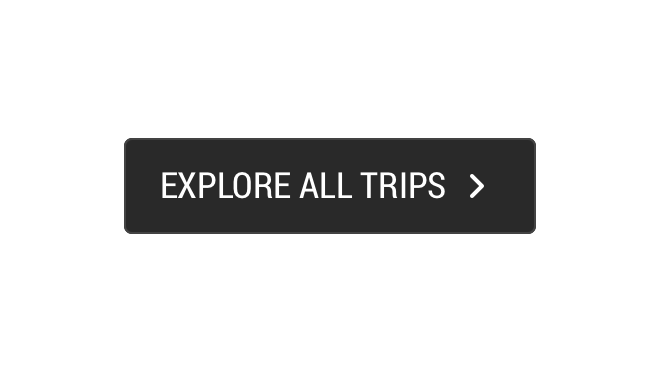
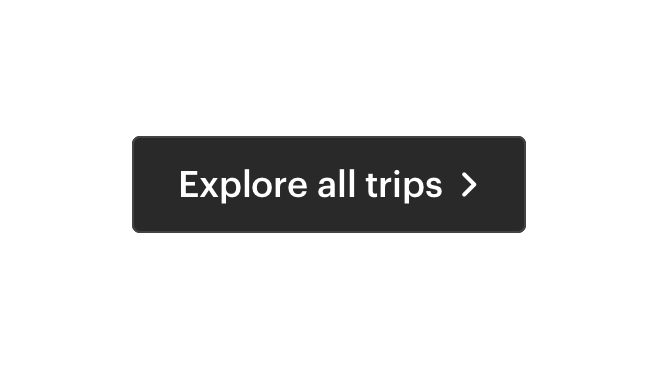
update cta images

Changed region(s): [[0.1824, 0.3568, 0.8207, 0.6541], [0.2432, 0.4459, 0.7295, 0.5649]]

diff --git a/docs/components/cta/README.md b/docs/components/cta/README.md
@@ -326,41 +326,21 @@ To construct consistent and universal Call to Actions across the site:
 
 <do-dont :examples="$page.frontmatter.placement" />
 
-// image changes
-do: https://drive.google.com/file/d/1R4kCcGUrmEJ8IWPOnAUOE1fcqaI0JCAK/view?usp=sharing
-don't: https://drive.google.com/file/d/150XHqaoB4pBICVnwJounkJLa-NyDJfd_/view?usp=sharing
-
 <br />
 
 <do-dont :examples="$page.frontmatter.label" />
-
-// image changes
-do: https://drive.google.com/file/d/1d3tbLktmQDwRRH8umcxxBUkqu5pGTLC0/view?usp=sharing
-don't: https://drive.google.com/file/d/1KE-isVi4CHEpo46bRE8_Mj_QTR4Hgk5n/view?usp=sharing
 
 <br />
 
 <do-dont :examples="$page.frontmatter.size" />
 
-// image changes
-do: https://drive.google.com/file/d/1IZLn9bYvzIgmT9wJ1mGdZg6K0yq1veB4/view?usp=sharing
-don't: https://drive.google.com/file/d/1TzRwGKSd-hnEnl7HAr1mrGSn4cuO71O0/view?usp=sharing
-
 <br />
 
 <do-dont :examples="$page.frontmatter.typography" />
 
-// image changes
-do: https://drive.google.com/file/d/15xVWqQaNbh2qwNqLudKqp-EaKQMhSzvo/view?usp=sharing
-don't: https://drive.google.com/file/d/1w56SEyuwcBbuw8eAfcg8nR5pjxg8EMxz/view?usp=sharing
-
 <br />
 
 <do-dont :examples="$page.frontmatter.link" />
-
-// image changes
-do: https://drive.google.com/file/d/12UlQi6dFV2mNABjQQBozakUj0LUVBou8/view?usp=sharing
-don't: https://drive.google.com/file/d/1kWUyBudVig5lpSgBWW8ICAqjI4BNcK2_/view?usp=sharing
 
 
 # API
